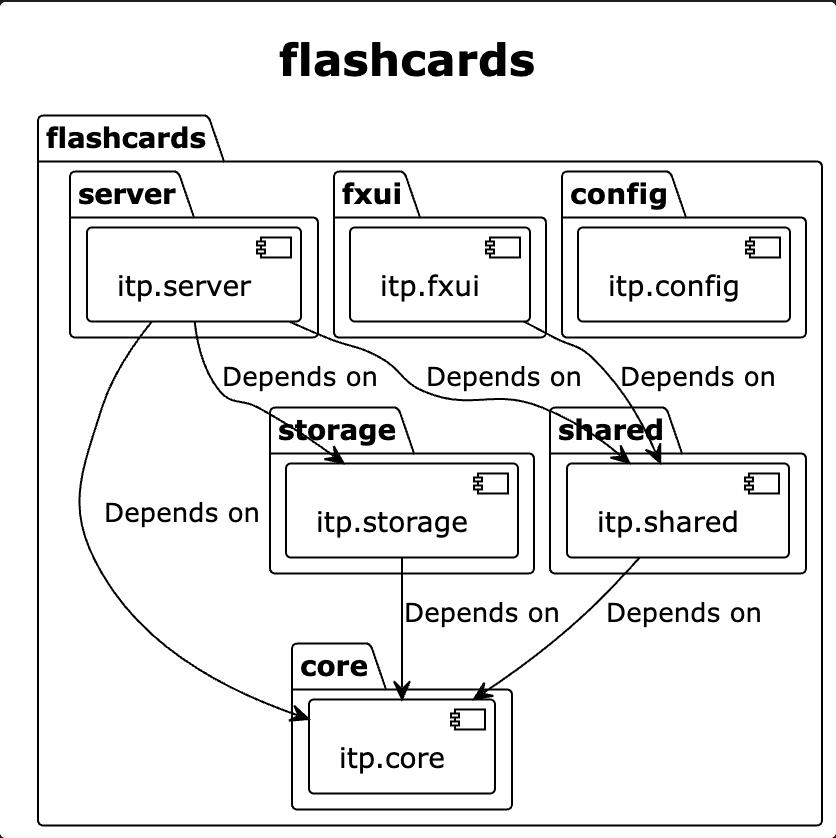
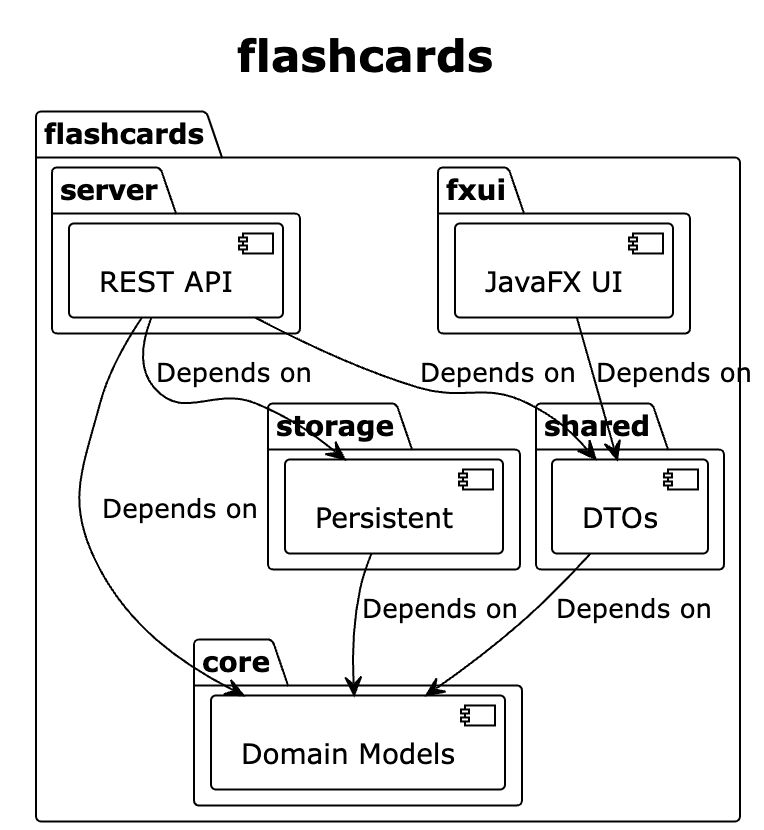
docs(release_3): refine docs files and update UML documentation
Refined challanges.md and sustainability.md
Updated UML diagrams

#136

diff --git a/docs/release_3/challenges.md b/docs/release_3/challenges.md
@@ -1,6 +1,6 @@
 # Challenges
 
-The team has encountered several challenges during this iteration of the project, primarily due to increased technical requirements and a restructuring of the project. We identified two key challenges that we chose to focus on and address throughout the process. These were the need to carry out an intentional change of the Java version midway through the iteration, as well as the development and implementation of tests.
+The team encountered several challenges during this iteration of the project, primarily due to increased technical requirements and a restructuring of the project. For this report, we chose to focus on two key challenges: the need to change the Java version midway through the iteration, as well as developing and implementing tests.
 
 ## 1. Java version
 

diff --git a/docs/release_3/sustainability.md b/docs/release_3/sustainability.md
@@ -198,7 +198,7 @@ The Sustainability Awareness Diagram below maps how our decisions when making th
 
 <!-- markdownlint-disable MD033 -->
 
-<img src="../../images/sustainability/susAd.png" alt="SUAS Sustainability Analysis Diagram" width="600">
+<img src="../../images/sustainability/susAd.png" alt="SUAS Sustainability Analysis Diagram" width="800">
 
 <!-- markdownlint-enable MD033 -->
 
